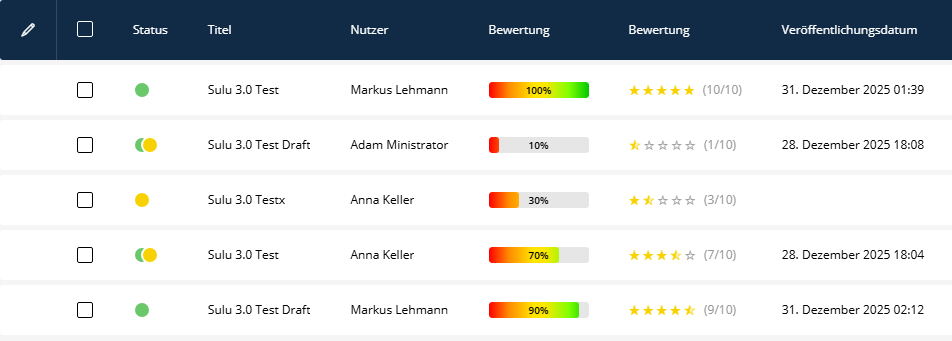
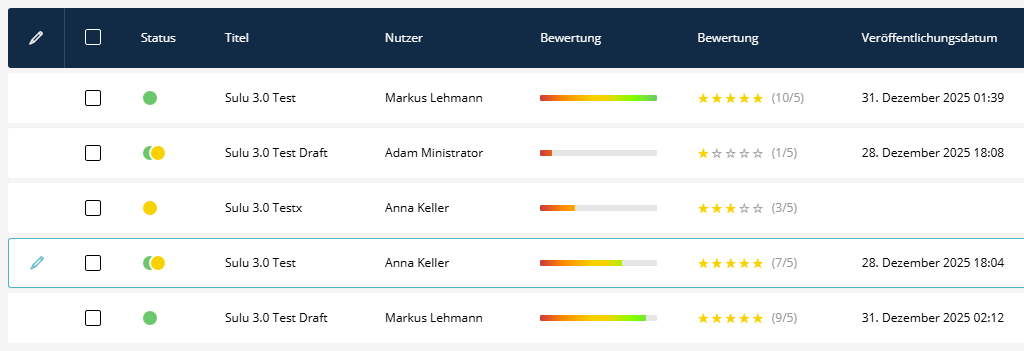
PercentBar: more features

diff --git a/src/Resources/js/fieldTransformers/PercentBarFieldTransformer.js b/src/Resources/js/fieldTransformers/PercentBarFieldTransformer.js
@@ -10,7 +10,9 @@ class PercentBarFieldTransformer {
         this.config = {
             show_value: true,
             value_position: 'outside',
+            value_color: '#000000',
             max_value: 100,
+            height: 16,
             use_gradient: true,
             gradient_mode: 'interpolate',
             color: '#52b6ca',
@@ -36,15 +38,25 @@ class PercentBarFieldTransformer {
         const p = Math.max(0, Math.min(100, percent));
 
         if (p <= 20) {
-            return '#ff0000';
+            return '#cf3939';
         } else if (p <= 40) {
             return '#ff8c00';
         } else if (p <= 60) {
-            return '#ffe600';
+            return '#f8d200';
         } else if (p <= 80) {
             return '#80ff00';
         } else {
-            return '#00c800';
+            return '#6ac86b';
+        }
+    }
+
+    getBorderRadius(height: number): number {
+        if (height >= 14) {
+            return 3;
+        } else if (height >= 10) {
+            return 2;
+        } else {
+            return 1;
         }
     }
 
@@ -62,6 +74,12 @@ class PercentBarFieldTransformer {
             : this.config.show_value;
 
         const valuePosition = this.getParam(parameters, 'value_position', this.config.value_position);
+        const valueColor = this.getParam(parameters, 'value_color', this.config.value_color);
+
+        const heightParam = this.getParam(parameters, 'height', null);
+        const height = heightParam !== null
+            ? parseInt(String(heightParam), 10)
+            : this.config.height;
 
         const useGradientParam = this.getParam(parameters, 'use_gradient', null);
         const useGradient = useGradientParam !== null
@@ -88,12 +106,20 @@ class PercentBarFieldTransformer {
             containerClasses.push(styles.animated);
         }
 
-        const showValueInside = showValue && valuePosition === 'inside';
+        const borderRadius = this.getBorderRadius(height);
+        const canShowValueInside = height >= 14;
+        const showValueInside = showValue && valuePosition === 'inside' && canShowValueInside;
         const showValueOutside = showValue && valuePosition === 'outside';
+
+        const barBackgroundStyle: Object = {
+            height: `${height}px`,
+            borderRadius: `${borderRadius}px`,
+        };
 
         const barFillClasses = [styles.barFill];
         const barFillStyle: Object = {
             width: `${percent}%`,
+            borderRadius: `${borderRadius}px`,
         };
 
         if (!useGradient) {
@@ -107,21 +133,31 @@ class PercentBarFieldTransformer {
             }
         }
 
+        const valueInsideStyle: Object = {
+            color: valueColor,
+        };
+
+        if (height < 16) {
+            valueInsideStyle.fontSize = `${Math.max(8, height - 4)}px`;
+        }
+
         return (
             <span className={containerClasses.join(' ')} title={title}>
-                <span className={styles.barBackground}>
+                <span className={styles.barBackground} style={barBackgroundStyle}>
                     <span
                         className={barFillClasses.join(' ')}
                         style={barFillStyle}
                     />
                     {showValueInside && (
-                        <span className={styles.valueInside}>
+                        <span className={styles.valueInside} style={valueInsideStyle}>
                             {displayValue}%
                         </span>
                     )}
                 </span>
                 {showValueOutside && (
-                    <span className={styles.valueOutside}>{displayValue}%</span>
+                    <span className={styles.valueOutside} style={{color: valueColor}}>
+                        {displayValue}%
+                    </span>
                 )}
             </span>
         );

diff --git a/src/Resources/js/fieldTransformers/PercentBarFieldTransformer.scss b/src/Resources/js/fieldTransformers/PercentBarFieldTransformer.scss
@@ -17,9 +17,7 @@
 
 .barBackground {
     flex: 1;
-    height: 16px;
     background-color: $mercury;
-    border-radius: 3px;
     overflow: hidden;
     min-width: 60px;
     position: relative;
@@ -27,7 +25,6 @@
 
 .barFill {
     height: 100%;
-    border-radius: 3px;
     background-position: left center;
     display: block;
 }
@@ -39,12 +36,12 @@
 .gradientSmooth {
     background-image: linear-gradient(
                     90deg,
-                    #ff0000 0%,
+                    $persianRed 0%,
                     #ff8c00 20%,
-                    #ffe600 45%,
-                    #ffe600 55%,
+                    $gold 45%,
+                    $gold 55%,
                     #80ff00 80%,
-                    #00c800 100%
+                    $mantis 100%
     );
     background-position: left center;
     background-repeat: no-repeat;
@@ -61,14 +58,12 @@
     justify-content: center;
     font-size: 10px;
     font-weight: 600;
-    color: $black;
     z-index: 1;
     line-height: 1.1;
 }
 
 .valueOutside {
     font-size: 12px;
-    color: $dustyGray;
     min-width: 36px;
     text-align: right;
     white-space: nowrap;

diff --git a/src/DependencyInjection/Configuration.php b/src/DependencyInjection/Configuration.php
@@ -55,10 +55,19 @@ class Configuration implements ConfigurationInterface
                             ->values(['inside', 'outside', 'none'])
                             ->defaultValue('outside')
                         ->end()
+                        ->scalarNode('value_color')
+                            ->info('Color of the percentage value (hex)')
+                            ->defaultValue('#000000')
+                        ->end()
                         ->integerNode('max_value')
                             ->info('Maximum value for percentage calculation (e.g. 100 for 0-100, 10 for 0-10). Can be overridden per list via XML param.')
                             ->defaultValue(100)
                             ->min(1)
+                        ->end()
+                        ->integerNode('height')
+                            ->info('Height of the bar in pixels. Under 14px, inside value is hidden. Border-radius adjusts automatically.')
+                            ->defaultValue(16)
+                            ->min(4)
                         ->end()
                         ->booleanNode('use_gradient')
                             ->info('Use color gradient or single color')

diff --git a/README.de.md b/README.de.md
@@ -18,6 +18,7 @@ Dieses Bundle funktioniert für Sulu 2.6 (wahrscheinlich auch mit früheren Vers
 
 ![Features](docs/img/features.de.png)
 
+
 ### 🔴 Publish State Indicator
 
 Treppeneffekte in Listen sind unschön, und die Standard-Darstellung produziert eben diese.
@@ -72,6 +73,7 @@ Zeigt Werte als farbigen Fortschrittsbalken an. Die Farbe wechselt von Rot (0%) 
 - **use_gradient**: Farbverlauf oder einzelne Farbe
 - **animate**: CSS-Animation beim Laden
 
+![Percent Bar](docs/img/percent-bar.interpolate.height.de.png)
 ![Percent Bar](docs/img/percent-bar.interpolate.de.png)
 ![Percent Bar](docs/img/percent-bar.steps.de.png)
 ---
@@ -229,6 +231,7 @@ In der Listen-XML hinzufügen:
         <params>
             <param name="max_value" value="5"/>
             <param name="value_position" value="inside"/>
+            <param name="value_color" value="#fff"/>
         </params>
     </transformer>
 </property>
@@ -240,6 +243,7 @@ In der Listen-XML hinzufügen:
 
     <transformer type="percent_bar">
         <params>
+            <param name="height" value="12"/>
             <param name="gradient_mode" value="steps"/>
         </params>
     </transformer>
@@ -284,9 +288,15 @@ sulu_tweaks:
         show_value: true
         # Position: 'inside' (im Balken), 'outside' (rechts), 'none' (versteckt)
         value_position: outside
+        # Farbe des Prozentwertes (hex)
+        value_color: '#000000'
         # Maximalwert für Berechnung - per XML-Parameter überschreibbar
         # Beispiele: 100 für 0-100%, 10 für 0-10 Skala, 5 für 0-5 Skala
         max_value: 100
+        # Höhe der Bar in Pixeln
+        # Unter 14px: inside Wert versteckt, border-radius: 2px
+        # Unter 10px: border-radius: 1px
+        height: 16
         # Farbverlauf oder einzelne Farbe
         use_gradient: true
         # Verlaufsmodus: 'interpolate' (fließend) oder 'steps' (Farbstufen)
